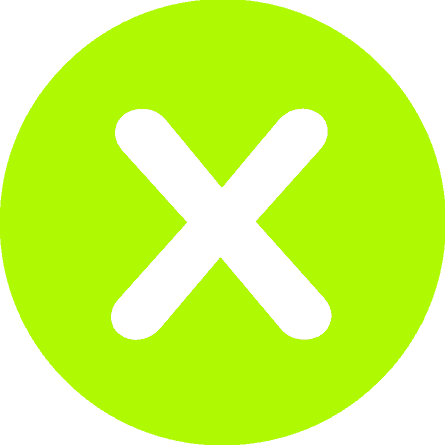
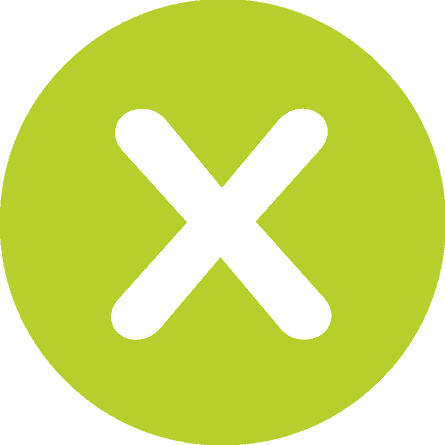
color scheme fix added popup before sending data back button fix

diff --git a/lib/helpers/my_dialogs.dart b/lib/helpers/my_dialogs.dart
@@ -1,5 +1,8 @@
 import 'package:flutter/material.dart';
 import 'package:access_settings_menu/access_settings_menu.dart';
+import 'package:recappture2/helpers/my_colors.dart';
+import 'package:recappture2/model/my_data.dart';
+import 'dart:io';
 
 Widget loadingDialog = WillPopScope(
   onWillPop: () async {
@@ -9,14 +12,14 @@ Widget loadingDialog = WillPopScope(
     content: Row(
       children: <Widget>[
         CircularProgressIndicator(
-          valueColor: AlwaysStoppedAnimation<Color>(Colors.lightGreenAccent),
+          valueColor: AlwaysStoppedAnimation<Color>(MyColors.green),
         ),
         Padding(
           padding: EdgeInsets.only(left: 20.0),
           child: Text(
-            "Prosimo počakajte",
+            "Prosimo počakajte ...",
             style: TextStyle(
-              color: Colors.grey,
+              color: MyColors.grey,
               fontSize: 20.0,
             ),
           ),
@@ -34,14 +37,14 @@ Widget locationDialog = WillPopScope(
     content: Row(
       children: <Widget>[
         CircularProgressIndicator(
-          valueColor: AlwaysStoppedAnimation<Color>(Colors.lightGreenAccent),
+          valueColor: AlwaysStoppedAnimation<Color>(MyColors.green),
         ),
         Padding(
           padding: EdgeInsets.only(left: 20.0),
           child: Text(
             "Iskanje lokacije ...",
             style: TextStyle(
-              color: Colors.grey,
+              color: MyColors.grey,
               fontSize: 20.0,
             ),
           ),
@@ -62,8 +65,7 @@ Widget exitDialog(BuildContext context) {
         child: ListBody(
           children: <Widget>[
             Text(
-              'Želite zapreti aplikacijo?',
-              style: TextStyle(color: Colors.grey),
+              'Želite zapreti aplikacijo?', style: TextStyle(color: MyColors.green, fontWeight: FontWeight.bold),
             ),
           ],
         ),
@@ -72,7 +74,7 @@ Widget exitDialog(BuildContext context) {
         FlatButton(
           child: Text(
             'PREKLIČI',
-            style: TextStyle(color: Colors.lightGreenAccent),
+            style: TextStyle(color: MyColors.green),
           ),
           onPressed: () {
             Navigator.pop(context);
@@ -81,9 +83,10 @@ Widget exitDialog(BuildContext context) {
         FlatButton(
           child: Text(
             'POTRDI',
-            style: TextStyle(color: Colors.lightGreenAccent),
+            style: TextStyle(color: MyColors.green),
           ),
           onPressed: () {
+            exit(0);
           },
         ),
       ],
@@ -108,13 +111,13 @@ Widget openSettings(BuildContext context) {
       return new Future(() => false);
     },
     child: AlertDialog(
-      title: Text('Lokacija onemogočena'),
+      title: Text('Lokacija onemogočena', style: TextStyle(color: MyColors.green, fontWeight: FontWeight.bold),),
       content: SingleChildScrollView(
         child: ListBody(
           children: <Widget>[
             Text(
               'Želite odpreti nastavitve lokacije?',
-              style: TextStyle(color: Colors.grey),
+              style: TextStyle(color: MyColors.grey),
             ),
           ],
         ),
@@ -123,7 +126,7 @@ Widget openSettings(BuildContext context) {
         FlatButton(
           child: Text(
             'PREKLIČI',
-            style: TextStyle(color: Colors.lightGreenAccent),
+            style: TextStyle(color: MyColors.green),
           ),
           onPressed: () {
             Navigator.pop(context);
@@ -132,7 +135,7 @@ Widget openSettings(BuildContext context) {
         FlatButton(
           child: Text(
             'ODPRI',
-            style: TextStyle(color: Colors.lightGreenAccent),
+            style: TextStyle(color: MyColors.green),
           ),
           onPressed: () {
             openSettingsMenu();

diff --git a/lib/scoped_models/navigation_model.dart b/lib/scoped_models/navigation_model.dart
@@ -1,3 +1,5 @@
+import 'package:recappture2/helpers/my_colors.dart';
+import 'package:recappture2/model/my_data.dart';
 import 'package:scoped_model/scoped_model.dart';
 import 'package:flutter/material.dart';
 import 'package:recappture2/helpers/my_dialogs.dart';
@@ -54,16 +56,12 @@ class NavigationModel extends Model {
     } else if (page == 5) {
       if (ContactSlideState.validateContacts()) {
         showDialog(
-          barrierDismissible: false,
+          barrierDismissible: true,
           context: context,
-          builder: (BuildContext context) {
-            return loadingDialog;
+          builder: (BuildContext ctx) {
+            return showDataDialog(ctx, context);
           },
         );
-        await sendUser();
-        Navigator.pop(context);
-        navigationCtrl.nextPage(duration: Duration(milliseconds: 300), curve: Curves.ease);
-        nextText = 'IZHOD';
       }
     } else if (page == 6) {
       exit(0);
@@ -89,9 +87,83 @@ class NavigationModel extends Model {
     } else if (page == 6) {
       return;
     } else {
+      FocusScope.of(context).requestFocus(new FocusNode());
       navigationCtrl.previousPage(duration: Duration(milliseconds: 300), curve: Curves.ease);
       nextText = 'NAPREJ';
     }
     notifyListeners();
+  }
+
+  Widget showDataDialog(BuildContext ctx, context) {
+
+    String phone = MyData.phone.isNotEmpty ? MyData.phone : '/';
+    String wood = MyData.woodType == 1 ? 'listavec' : 'iglavec';
+
+    return AlertDialog(
+      title: Text('Želite poslati naslednje podatke?', style: TextStyle(color: MyColors.green, fontWeight: FontWeight.bold),),
+      content: SingleChildScrollView(
+        child: ListBody(
+          children: <Widget>[
+            myRow('Lokacija', MyData.location),
+            myRow('Količina', MyData.quantity.toString() + ' m\u00B3'),
+            myRow('Vrsta lesa', wood),
+            myRow('Email', MyData.email),
+            myRow('Telefon', phone),
+          ],
+        ),
+      ),
+      actions: <Widget>[
+        FlatButton(
+          child: Text(
+            'PREKLIČI',
+            style: TextStyle(color: MyColors.green),
+          ),
+          onPressed: () {
+            Navigator.pop(ctx);
+          },
+        ),
+        FlatButton(
+          child: Text(
+            'POŠLJI',
+            style: TextStyle(color: MyColors.green),
+          ),
+          onPressed: () async {
+            Navigator.pop(ctx);
+
+            showDialog(
+              barrierDismissible: false,
+              context: context,
+              builder: (BuildContext context) {
+                return loadingDialog;
+              },
+            );
+            await sendUser();
+            Navigator.pop(context);
+            navigationCtrl.nextPage(duration: Duration(milliseconds: 300), curve: Curves.ease);
+            nextText = 'IZHOD';
+            notifyListeners();
+          },
+        ),
+      ],
+    );
+  }
+
+  Widget myRow(String title, text) {
+    return Row(
+      mainAxisAlignment: MainAxisAlignment.start,
+      crossAxisAlignment: CrossAxisAlignment.start,
+      children: <Widget>[
+        Text(
+          '$title: ',
+          style: TextStyle(color: MyColors.grey, fontWeight: FontWeight.bold),
+        ),
+        Flexible(
+          child: Text(
+            text,
+            style: TextStyle(color: MyColors.grey,),
+          ),
+        ),
+      ],
+    );
   }
 }

diff --git a/lib/pages/wood/wood_slide.dart b/lib/pages/wood/wood_slide.dart
@@ -8,8 +8,8 @@ class WoodSlide extends StatefulWidget {
   WoodSlideState createState() => WoodSlideState();
 }
 
-class WoodSlideState extends State<WoodSlide> with AutomaticKeepAliveClientMixin<WoodSlide> {
-
+class WoodSlideState extends State<WoodSlide>
+    with AutomaticKeepAliveClientMixin<WoodSlide> {
   static final WoodModel woodModel = new WoodModel();
 
   @override
@@ -50,7 +50,8 @@ class WoodSlideState extends State<WoodSlide> with AutomaticKeepAliveClientMixin
               scrollDirection: Axis.vertical,
               itemCount: 4,
               itemBuilder: (context, index) {
-                return woodPage(index, () => woodModel.addDeciduous(context), () => woodModel.addConiferous(context));
+                return woodPage(index, () => woodModel.addDeciduous(context),
+                    () => woodModel.addConiferous(context));
               },
             ),
           ),
@@ -71,7 +72,10 @@ class WoodSlideState extends State<WoodSlide> with AutomaticKeepAliveClientMixin
               children: <Widget>[
                 GestureDetector(
                   onTap: funDeciduous,
-                  child: Image.asset('assets/listavec${index + 1}.png', fit: BoxFit.contain,),
+                  child: Image.asset(
+                    'assets/listavec${index + 1}.png',
+                    fit: BoxFit.contain,
+                  ),
                 ),
                 MyText(
                   text: 'Listavec',
@@ -81,14 +85,18 @@ class WoodSlideState extends State<WoodSlide> with AutomaticKeepAliveClientMixin
               ],
             ),
           ),
-        ),Expanded(
+        ),
+        Expanded(
           child: Padding(
             padding: EdgeInsets.all(6),
             child: Column(
               children: <Widget>[
                 GestureDetector(
                   onTap: funConiferous,
-                  child: Image.asset('assets/iglavec${index + 1}.png', fit: BoxFit.contain,),
+                  child: Image.asset(
+                    'assets/iglavec${index + 1}.png',
+                    fit: BoxFit.contain,
+                  ),
                 ),
                 MyText(
                   text: 'Iglavec',

diff --git a/lib/pages/gallery/gallery_slide.dart b/lib/pages/gallery/gallery_slide.dart
@@ -33,7 +33,7 @@ class GallerySlideState extends State<GallerySlide>
       child: Stack(
         children: <Widget>[
           Container(
-            margin: EdgeInsets.only(top: 40, bottom: 80),
+            margin: EdgeInsets.only(top: 100, bottom: 140),
             child: Center(
               child: PageView.builder(
                 controller: galleryModel.galleryCtrl,
@@ -45,7 +45,7 @@ class GallerySlideState extends State<GallerySlide>
                       return model.imgList[index] == ''
                           ? child
                           : Container(
-                              margin: EdgeInsets.fromLTRB(50, 0, 50, 0),
+                              margin: EdgeInsets.fromLTRB(20, 0, 20, 0),
                               decoration: BoxDecoration(
                                 image: DecorationImage(
                                   fit: BoxFit.contain,

diff --git a/lib/helpers/my_colors.dart b/lib/helpers/my_colors.dart
@@ -1,8 +1,8 @@
 import 'package:flutter/material.dart';
 
 class MyColors {
-  static Color green = Color(0xffadf700);
-  static Color grey = Color(0xffb3b3b3);
+  static Color green = Color(0xffBAD12F);
+  static Color grey = Color(0xff808080);
   static Color accent = Colors.lightGreen;
   static Color primary = Colors.grey;
   static Brightness brightness = Brightness.light;

diff --git a/lib/main.dart b/lib/main.dart
@@ -1,4 +1,10 @@
 import 'package:flutter/material.dart';
 import 'package:recappture2/app.dart';
+import 'package:flutter/services.dart';
 
-void main() => runApp(App());
+void main() {
+  SystemChrome.setPreferredOrientations([DeviceOrientation.portraitUp])
+      .then((_) {
+    runApp(App());
+  });
+}
